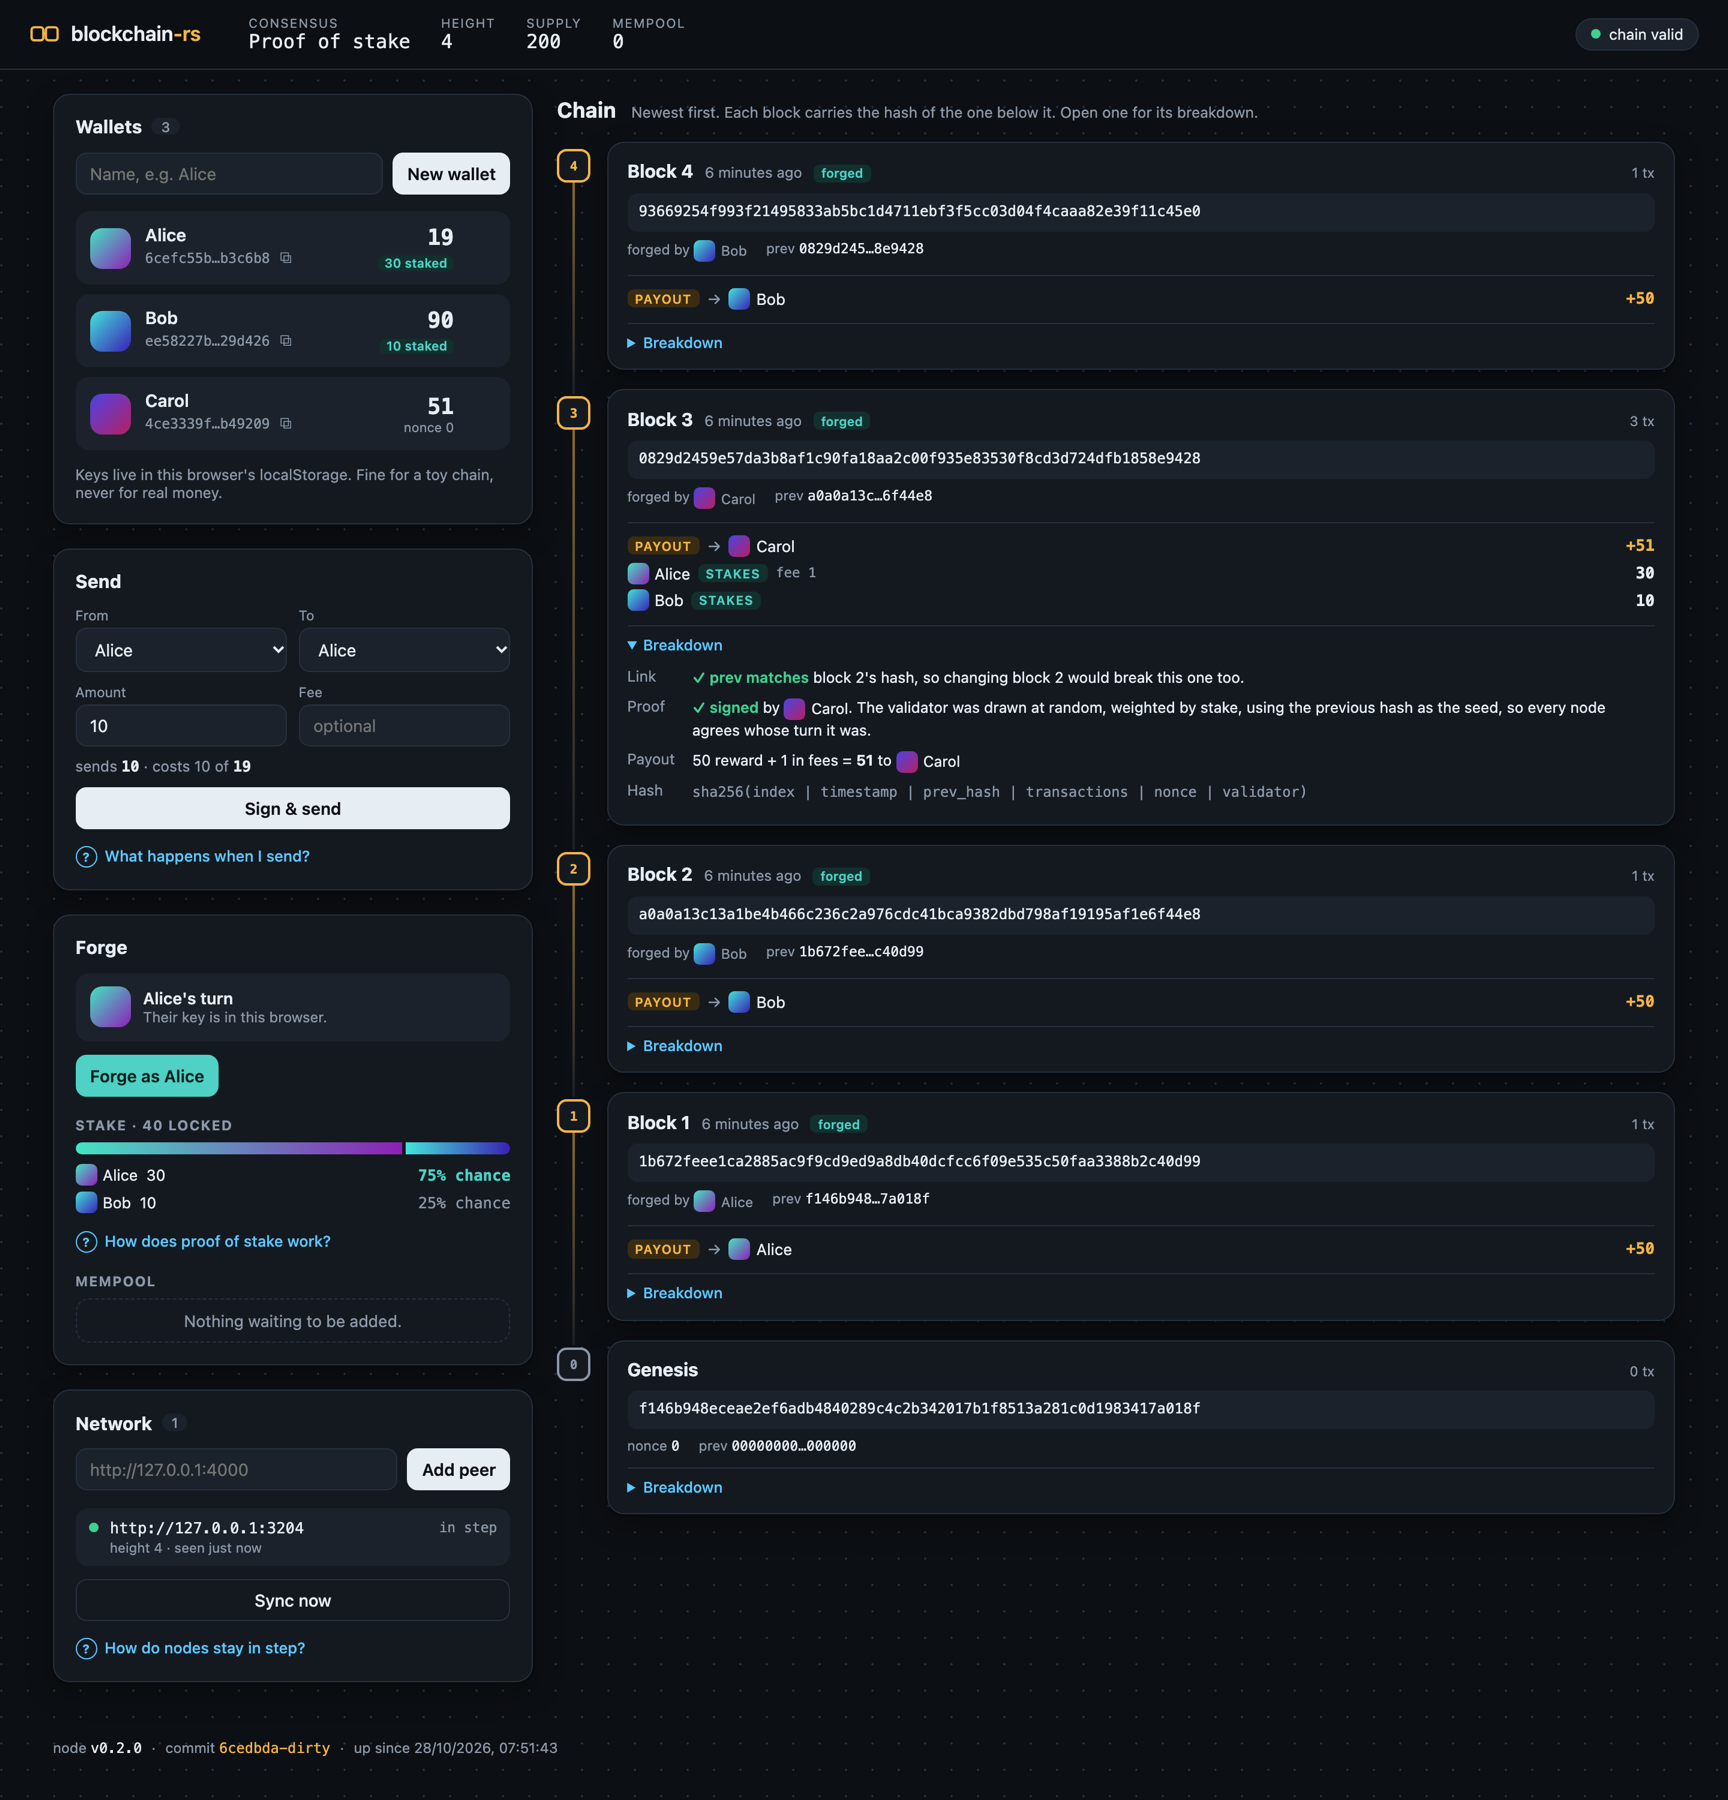
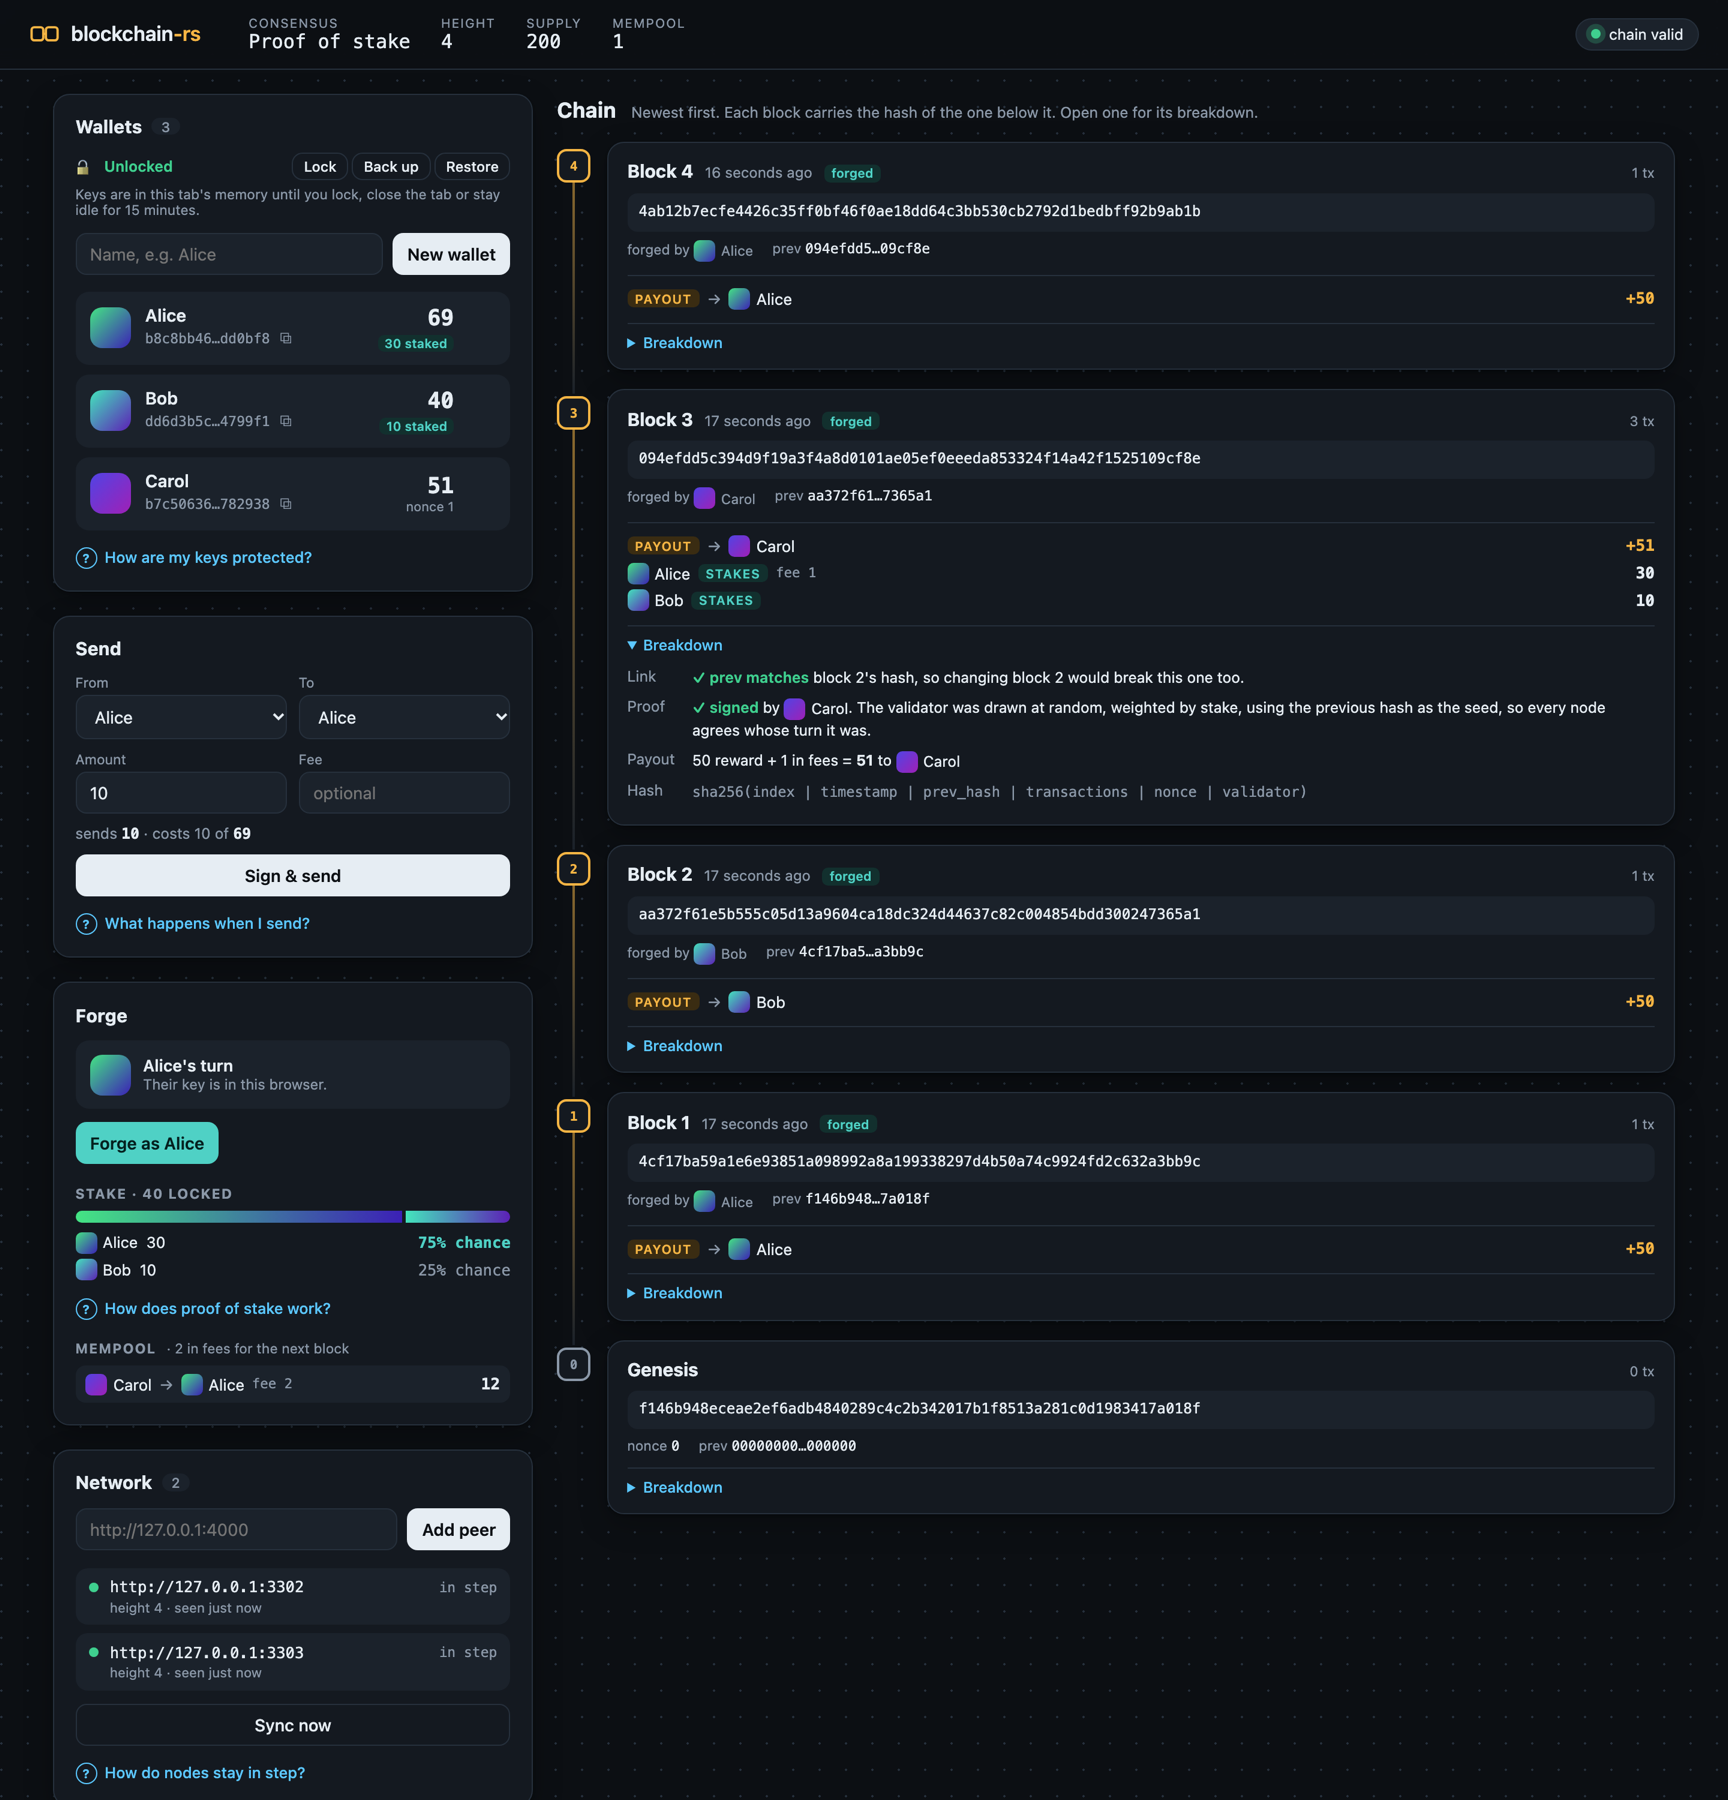
README: lead with the Docker quick start, show the passphrase vault

diff --git a/README.md b/README.md
@@ -4,13 +4,13 @@
 
 **A small, readable cryptocurrency in Rust that you can run, break and watch heal.**
 
-Proof of work *or* proof of stake · signed transfers with optional fees · peers that gossip and sync · a web UI that explains every block
+Proof of work *or* proof of stake · keys that never leave your browser · fees · peers that gossip and sync · a web UI that explains every block
 
 [![Tests](https://github.com/alex-quiterio/blockchain-rs/actions/workflows/test.yml/badge.svg)](https://github.com/alex-quiterio/blockchain-rs/actions/workflows/test.yml)
 ![Rust](https://img.shields.io/badge/rust-2021-orange?logo=rust)
 ![No real money](https://img.shields.io/badge/real%20money-none-lightgrey)
 
-<img src="docs/screenshot-pos.png" alt="A proof-of-stake node: wallets with stake, whose turn it is to forge, stake odds, a peer in step, and the chain with a block's breakdown open" width="900" />
+<img src="docs/screenshot-pos.png" alt="A proof-of-stake node: unlocked passphrase vault, wallets with stake, whose turn it is to forge, stake odds, two peers in step, and the chain with a block's breakdown open" width="900" />
 
 </div>
 
@@ -33,10 +33,17 @@ Proof of work *or* proof of stake · signed transfers with optional fees · peer
 ## 🚀 Quick start
 
 ```sh
-cargo run          # http://127.0.0.1:3000
+docker compose up --build     # three linked nodes on :3000, :3001 and :3002
+# or, for a single node:
+cargo run                     # http://127.0.0.1:3000
 ```
 
-Open **http://127.0.0.1:3000**, create a couple of wallets, mine a block, send some coins, and open any block's **Breakdown** to see why it's valid.
+Open **http://127.0.0.1:3000** and:
+
+1. 🔒 **Choose a passphrase.** It encrypts your wallets' keys before they're saved in the browser.
+2. 👛 **Make a couple of wallets**, then **mine** a block to fund one.
+3. 💸 **Send some coins**, with a fee if you like. The page signs the transaction itself and only the signature goes to the node.
+4. 🔍 **Open any block's Breakdown** to see why it's valid. With Docker running, open `:3001` too and watch the block arrive.
 
 ### Proof of stake
 
@@ -52,7 +59,12 @@ While nothing is staked, anyone may forge. Forge a few blocks to earn coins, sen
 docker compose up --build
 ```
 
-That starts nodes on **:3000**, **:3001** and **:3002**, linked c → b → a. Mine on one node and the block reaches the others within seconds. Add `CONSENSUS=pos` in front for proof of stake, and `GIT_COMMIT=$(git rev-parse --short HEAD)` to show the real commit in the footer. Each node keeps its chain in its own volume, and `docker compose down -v` wipes them.
+```mermaid
+flowchart LR
+    C["node-c<br/>:3002"] <--> B["node-b<br/>:3001"] <--> A["node-a<br/>:3000"]
+```
+
+That starts nodes on **:3000**, **:3001** and **:3002**. C and A only know B, and gossip carries everything across. Mine on one node and the block reaches the others within seconds. Add `CONSENSUS=pos` in front for proof of stake, and `GIT_COMMIT=$(git rev-parse --short HEAD)` to show the real commit in the footer. Each node keeps its chain in its own volume, and `docker compose down -v` wipes them.
 
 <details>
 <summary><b>Without Docker</b></summary>
@@ -179,7 +191,7 @@ flowchart TB
 ## 🧪 Tests
 
 ```sh
-cargo test
+cargo test        # 64 tests: unit, HTTP and property-based
 ```
 
 - **Domain:** consensus rules, staking, fees, forks and tampering.
